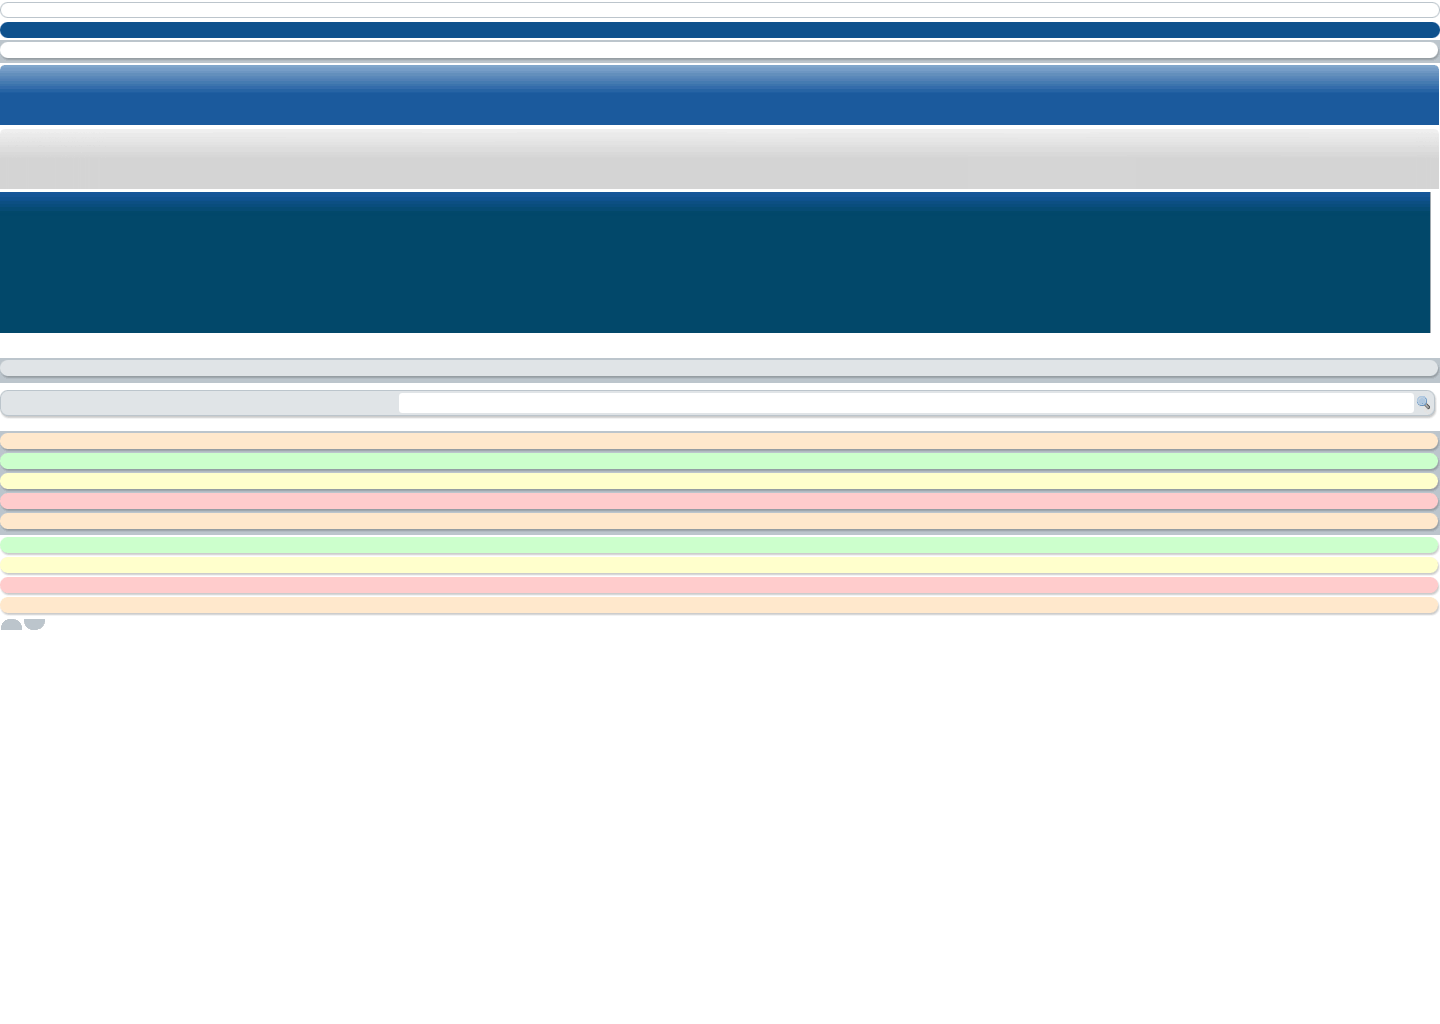
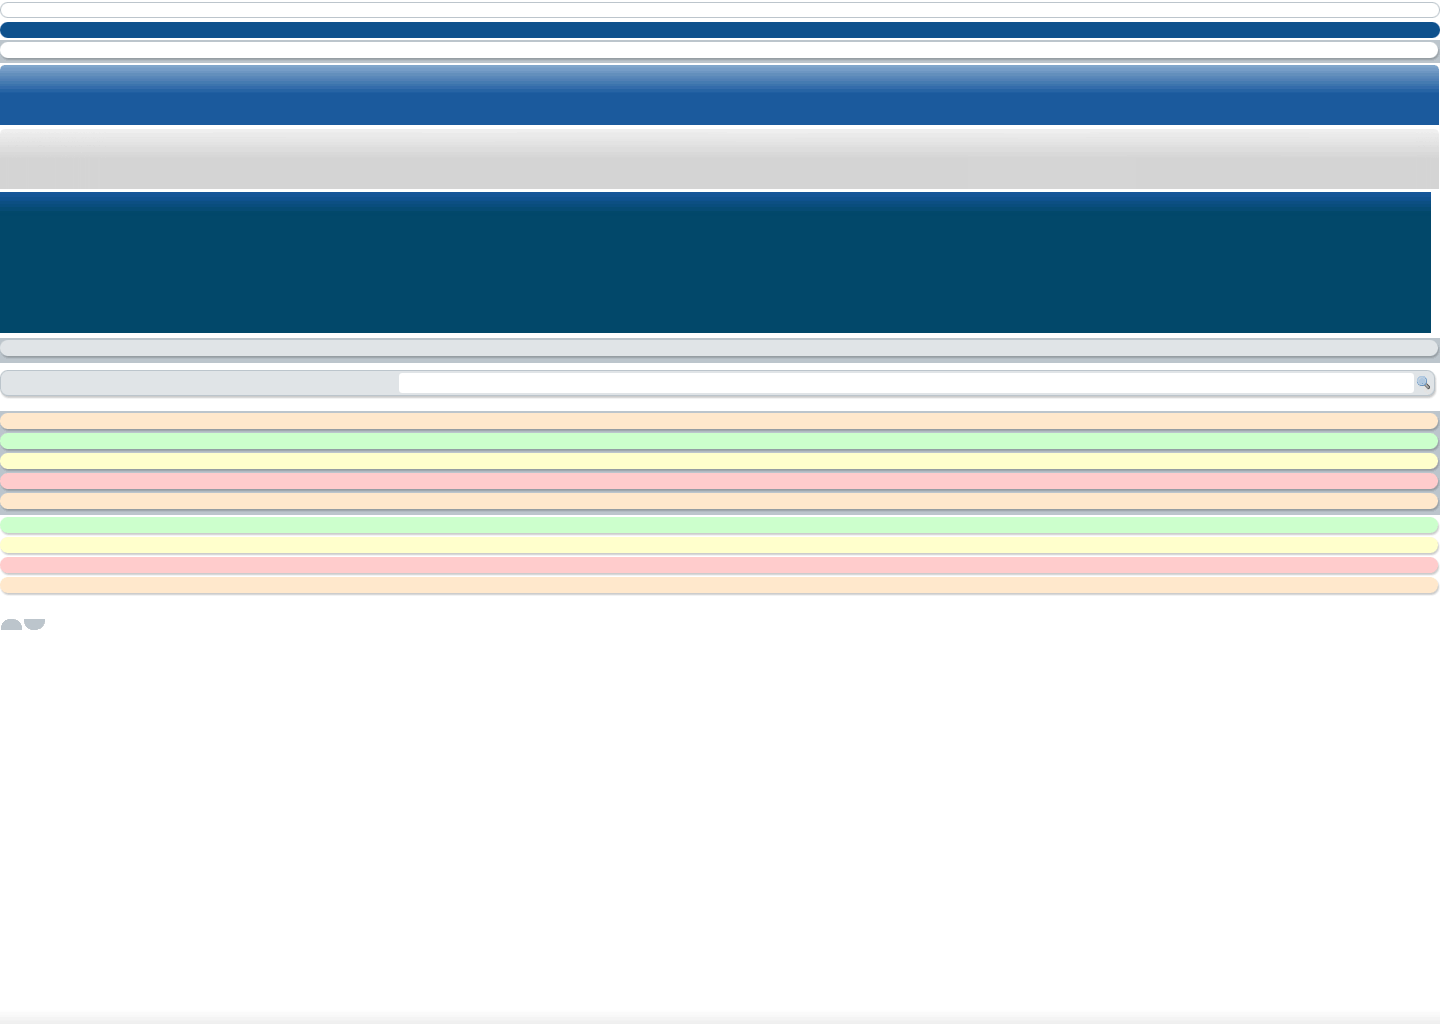
reverting bug

Changed region(s): [[0.0, 0.3125, 1.0, 0.625]]

diff --git a/htdocs/core/css/templates/ps/headers-and-footers.css b/htdocs/core/css/templates/ps/headers-and-footers.css
@@ -14,11 +14,11 @@
 #search input#q { width: 200px; border:0; padding:0; color: #000; margin: 0; font-weight: bold; font-size: 12px; background-color: transparent; }
 #search #q.qdef { color: #bcc5cc; }
 #search #q_submit { height:20px; width:30px; }
-#search span { display: block; float:left; height: 29px; padding: 3px 0 3px 0; border: 0; margin: 0; background: #e0e4e7 url(/core/gfx/templates/ps/bars-130725.png) no-repeat 0 -390px; line-height:12px; }
+#search span { display: block; float:left; height: 29px; padding: 3px 0 3px 0; border: 0; margin: 0; background: #e0e4e7 url(/core/gfx/templates/ps/bars-130725.png) no-repeat 0 -370px; line-height:12px; }
 #search #s1 { padding: 7px 6px 2px 8px; }
-#search #s4 { padding-left: 4px; background-position: -398px -390px; padding-top: 3px; width: 200px}
+#search #s4 { padding-left: 4px; background-position: -398px -370px; padding-top: 3px; width: 200px}
 #search #s4 { padding-top: 5px; }
-#search #s5 { width:30px; background-position: -1409px -390px; }
+#search #s5 { width:30px; background-position: -1409px -370px; }
 #search_a { clear: right; float:right; display: none; font-size: 0.8em; width: 10em; }
 
 @media print {
